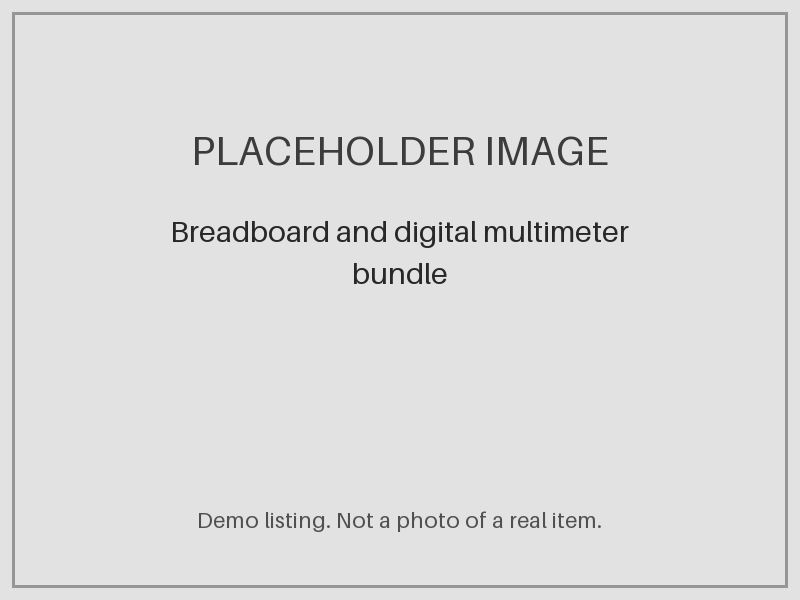
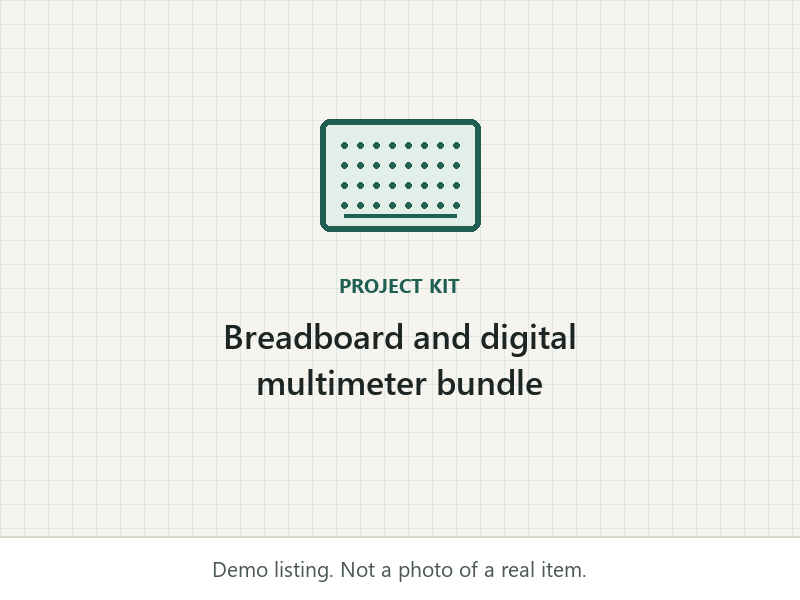
Restyle Browse with item cards, filter panel and empty states; keep the search form in step with Back and Forward; redraw demo placeholder images

diff --git a/src/pages/MarketplacePage.tsx b/src/pages/MarketplacePage.tsx
@@ -3,10 +3,11 @@ import { Link, useSearchParams } from 'react-router'
 import { supabase } from '../lib/supabase'
 import { demo, demoMode } from '../lib/demo'
 import { PROGRAMS } from '../lib/programs'
-import { CONDITION_LABELS, LISTING_STATUS_LABELS, formatPeso } from '../lib/listing-rules'
+import { CONDITION_LABELS, formatPeso } from '../lib/listing-rules'
 import { PAGE_SIZE, searchListings, type ListingFilters, type ListingPage } from '../lib/listing-search'
 import { fetchCategories, fetchMemberNames, signedPhotoUrls } from '../lib/listings'
 import ListingPhoto from '../components/ListingPhoto'
+import { EmptyState, ErrorNotice, ListingStatusBadge, Loading, PageHeader } from '../components/ui'
 import type { Category } from '../types/database'
 
 type Results = ListingPage & {
@@ -46,11 +47,6 @@ export default function MarketplacePage() {
 
   const [categories, setCategories] = useState<Category[]>([])
   const [state, setState] = useState<LoadState>({ kind: 'loading' })
-  // Form fields, applied when the form is submitted.
-  const [keyword, setKeyword] = useState(filters.keyword)
-  const [categoryId, setCategoryId] = useState(filters.categoryId === null ? '' : String(filters.categoryId))
-  const [program, setProgram] = useState(filters.program ?? '')
-  const [includeReserved, setIncludeReserved] = useState(filters.includeReserved)
 
   useEffect(() => {
     fetchCategories().then(setCategories, () => setCategories([]))
@@ -78,32 +74,18 @@ export default function MarketplacePage() {
     }
   }, [filterKey])
 
-  function applyFilters(event: FormEvent<HTMLFormElement>) {
-    event.preventDefault()
+  function search(next: ListingFilters) {
     setState({ kind: 'loading' })
-    setSearchParams(
-      paramsFromFilters({
-        keyword,
-        categoryId: categoryId ? Number(categoryId) : null,
-        program: program || null,
-        includeReserved,
-        page: 1,
-      }),
-    )
+    setSearchParams(paramsFromFilters(next))
   }
 
   function clearFilters() {
-    setKeyword('')
-    setCategoryId('')
-    setProgram('')
-    setIncludeReserved(false)
     setState({ kind: 'loading' })
     setSearchParams({})
   }
 
   function goToPage(page: number) {
-    setState({ kind: 'loading' })
-    setSearchParams(paramsFromFilters({ ...filters, page }))
+    search({ ...filters, page })
     window.scrollTo(0, 0)
   }
 
@@ -113,25 +95,91 @@ export default function MarketplacePage() {
 
   return (
     <section>
-      <h1 className="h3">Browse</h1>
+      <PageHeader title="Browse">
+        Items for sale from approved students. Prices are fixed and in pesos; you pay in person at the meetup.
+      </PageHeader>
 
-      <form className="row g-2 align-items-end mb-4" onSubmit={applyFilters} role="search">
-        <div className="col-12 col-md-4">
+      {/* Keyed on the address so Back and Forward show the search that matches the results. */}
+      <FilterForm
+        key={filterKey}
+        filters={filters}
+        categories={categories}
+        filtering={filtering}
+        onSearch={search}
+        onClear={clearFilters}
+      />
+
+      {state.kind === 'loading' && <Loading>Loading listings…</Loading>}
+      {state.kind === 'error' && <ErrorNotice>Could not load listings. Check your connection and reload.</ErrorNotice>}
+      {state.kind === 'ready' && (
+        <BrowseResults
+          results={state.results}
+          filtering={filtering}
+          page={filters.page}
+          categoryName={categoryName}
+          onPage={goToPage}
+          onClear={clearFilters}
+        />
+      )}
+    </section>
+  )
+}
+
+type FilterFormProps = {
+  filters: ListingFilters
+  categories: Category[]
+  filtering: boolean
+  onSearch: (filters: ListingFilters) => void
+  onClear: () => void
+}
+
+function FilterForm({ filters, categories, filtering, onSearch, onClear }: FilterFormProps) {
+  const [keyword, setKeyword] = useState(filters.keyword)
+  const [categoryId, setCategoryId] = useState(filters.categoryId === null ? '' : String(filters.categoryId))
+  const [program, setProgram] = useState(filters.program ?? '')
+  const [includeReserved, setIncludeReserved] = useState(filters.includeReserved)
+
+  function submit(event: FormEvent<HTMLFormElement>) {
+    event.preventDefault()
+    onSearch({
+      keyword,
+      categoryId: categoryId ? Number(categoryId) : null,
+      program: program || null,
+      includeReserved,
+      page: 1,
+    })
+  }
+
+  return (
+    <form className="cb-card cb-filters" onSubmit={submit} role="search" aria-label="Search listings">
+      <div className="row g-2 align-items-end">
+        <div className="col-12 col-lg-4">
           <label htmlFor="browse-keyword" className="form-label">Keyword</label>
-          <input id="browse-keyword" type="search" className="form-control" value={keyword}
-            onChange={(event) => setKeyword(event.target.value)} placeholder="e.g. fx-991ES, drafting" maxLength={100} />
+          <input
+            id="browse-keyword"
+            type="search"
+            className="form-control"
+            value={keyword}
+            onChange={(event) => setKeyword(event.target.value)}
+            placeholder="e.g. fx-991ES, drafting"
+            maxLength={100}
+          />
         </div>
-        <div className="col-12 col-sm-6 col-md-3">
+        <div className="col-12 col-sm-6 col-lg-3">
           <label htmlFor="browse-category" className="form-label">Category</label>
-          <select id="browse-category" className="form-select" value={categoryId}
-            onChange={(event) => setCategoryId(event.target.value)}>
+          <select
+            id="browse-category"
+            className="form-select"
+            value={categoryId}
+            onChange={(event) => setCategoryId(event.target.value)}
+          >
             <option value="">All categories</option>
             {categories.map((category) => (
               <option key={category.id} value={category.id}>{category.name}</option>
             ))}
           </select>
         </div>
-        <div className="col-12 col-sm-6 col-md-3">
+        <div className="col-12 col-sm-6 col-lg-3">
           <label htmlFor="browse-program" className="form-label">Program</label>
           <select id="browse-program" className="form-select" value={program} onChange={(event) => setProgram(event.target.value)}>
             <option value="">All programs</option>
@@ -140,28 +188,28 @@ export default function MarketplacePage() {
             ))}
           </select>
         </div>
-        <div className="col-12 col-md-2 d-grid">
+        <div className="col-12 col-lg-2 d-grid">
           <button type="submit" className="btn btn-primary">Search</button>
         </div>
-        <div className="col-12 d-flex flex-wrap align-items-center gap-3">
-          <div className="form-check mb-0">
-            <input id="browse-reserved" type="checkbox" className="form-check-input" checked={includeReserved}
-              onChange={(event) => setIncludeReserved(event.target.checked)} />
-            <label htmlFor="browse-reserved" className="form-check-label">Also show reserved items</label>
-          </div>
-          {filtering && (
-            <button type="button" className="btn btn-link p-0" onClick={clearFilters}>Clear search and filters</button>
-          )}
+      </div>
+      <div className="d-flex flex-wrap align-items-center gap-3 mt-3">
+        <div className="form-check mb-0">
+          <input
+            id="browse-reserved"
+            type="checkbox"
+            className="form-check-input"
+            checked={includeReserved}
+            onChange={(event) => setIncludeReserved(event.target.checked)}
+          />
+          <label htmlFor="browse-reserved" className="form-check-label">Also show reserved items</label>
         </div>
-      </form>
-
-      {state.kind === 'loading' && <p>Loading listings…</p>}
-      {state.kind === 'error' && <p role="alert">Could not load listings. Check your connection and reload.</p>}
-      {state.kind === 'ready' && (
-        <BrowseResults results={state.results} filtering={filtering} page={filters.page}
-          categoryName={categoryName} onPage={goToPage} onClear={clearFilters} />
-      )}
-    </section>
+        {filtering && (
+          <button type="button" className="btn btn-link p-0 ms-sm-auto" onClick={onClear}>
+            Clear search and filters
+          </button>
+        )}
+      </div>
+    </form>
   )
 }
 
@@ -177,23 +225,26 @@ type BrowseResultsProps = {
 function BrowseResults({ results, filtering, page, categoryName, onPage, onClear }: BrowseResultsProps) {
   if (results.pastEnd) {
     return (
-      <p>
-        There is nothing on page {page}.{' '}
-        <button type="button" className="btn btn-link p-0 align-baseline" onClick={() => onPage(1)}>Go to the first page</button>
-      </p>
+      <EmptyState
+        title={`There is nothing on page ${page}.`}
+        action={<button type="button" className="btn btn-outline-primary" onClick={() => onPage(1)}>Go to the first page</button>}
+      >
+        The listings may have changed since this link was made.
+      </EmptyState>
     )
   }
   if (results.total === 0) {
     return filtering ? (
-      <div>
-        <p>No available listings match your search.</p>
-        <button type="button" className="btn btn-outline-secondary" onClick={onClear}>Clear search and filters</button>
-      </div>
+      <EmptyState
+        title="No listings match your search."
+        action={<button type="button" className="btn btn-outline-primary" onClick={onClear}>Clear search and filters</button>}
+      >
+        Try a shorter keyword, another category, or include reserved items.
+      </EmptyState>
     ) : (
-      <div>
-        <p>No listings are available yet.</p>
-        <Link to="/sell" className="btn btn-outline-primary">Sell an item</Link>
-      </div>
+      <EmptyState title="No listings are available yet." action={<Link to="/sell" className="btn btn-primary">Sell an item</Link>}>
+        When approved students post items for sale, they show up here.
+      </EmptyState>
     )
   }
 
@@ -202,44 +253,50 @@ function BrowseResults({ results, filtering, page, categoryName, onPage, onClear
 
   return (
     <>
-      <p className="text-body-secondary" aria-live="polite">
+      <p className="cb-muted mb-3" aria-live="polite">
         Showing {first}–{last} of {results.total} {results.total === 1 ? 'listing' : 'listings'}, newest first.
       </p>
-      <ul className="row g-3 list-unstyled">
+      <ul className="row g-3 list-unstyled mb-4">
         {results.listings.map((listing) => (
           <li key={listing.id} className="col-12 col-sm-6 col-lg-4">
-            <div className="card h-100">
-              <ListingPhoto
-                url={listing.photo_path ? results.photoUrls.get(listing.photo_path) : undefined}
-                title={listing.title}
-                className="card-img-top"
-              />
-              <div className="card-body">
-                <h2 className="h6 card-title">
-                  <Link to={`/listings/${listing.id}`} className="stretched-link">{listing.title}</Link>
+            <article className="cb-card cb-item">
+              <ListingPhoto url={listing.photo_path ? results.photoUrls.get(listing.photo_path) : undefined} title={listing.title} />
+              <div className="cb-item-body">
+                <div className="d-flex flex-wrap align-items-center gap-2">
+                  <ListingStatusBadge status={listing.status} />
+                  <span className="cb-chip">{categoryName(listing.category_id)}</span>
+                </div>
+                <h2 className="cb-item-title">
+                  <Link to={`/listings/${listing.id}`}>{listing.title}</Link>
                 </h2>
-                <p className="fs-5 mb-1">{formatPeso(listing.price)}</p>
-                <p className="mb-1">
-                  <strong>{LISTING_STATUS_LABELS[listing.status]}</strong> · {CONDITION_LABELS[listing.condition]}
+                <p className="cb-price cb-item-price mb-0">{formatPeso(listing.price)}</p>
+                <p className="mb-0">
+                  <span className="cb-muted">Condition:</span> {CONDITION_LABELS[listing.condition]}
                 </p>
-                <p className="mb-0 text-body-secondary small">
-                  {categoryName(listing.category_id)} · {listing.program}
+                <p className="cb-item-meta mb-0">
+                  {listing.program}
                   {results.sellerNames.has(listing.seller_id) && <> · Seller: {results.sellerNames.get(listing.seller_id)}</>}
                 </p>
               </div>
-            </div>
+            </article>
           </li>
         ))}
       </ul>
       {results.pageCount > 1 && (
-        <nav className="d-flex align-items-center gap-3" aria-label="Pages">
+        <nav className="d-flex flex-wrap align-items-center justify-content-center gap-3" aria-label="Pages">
           <button type="button" className="btn btn-outline-secondary" disabled={page <= 1} onClick={() => onPage(page - 1)}>
-            Previous
+            ← Previous
           </button>
-          <span>Page {page} of {results.pageCount}</span>
-          <button type="button" className="btn btn-outline-secondary" disabled={page >= results.pageCount}
-            onClick={() => onPage(page + 1)}>
-            Next
+          <span aria-current="page">
+            Page <strong>{page}</strong> of {results.pageCount}
+          </span>
+          <button
+            type="button"
+            className="btn btn-outline-secondary"
+            disabled={page >= results.pageCount}
+            onClick={() => onPage(page + 1)}
+          >
+            Next →
           </button>
         </nav>
       )}
